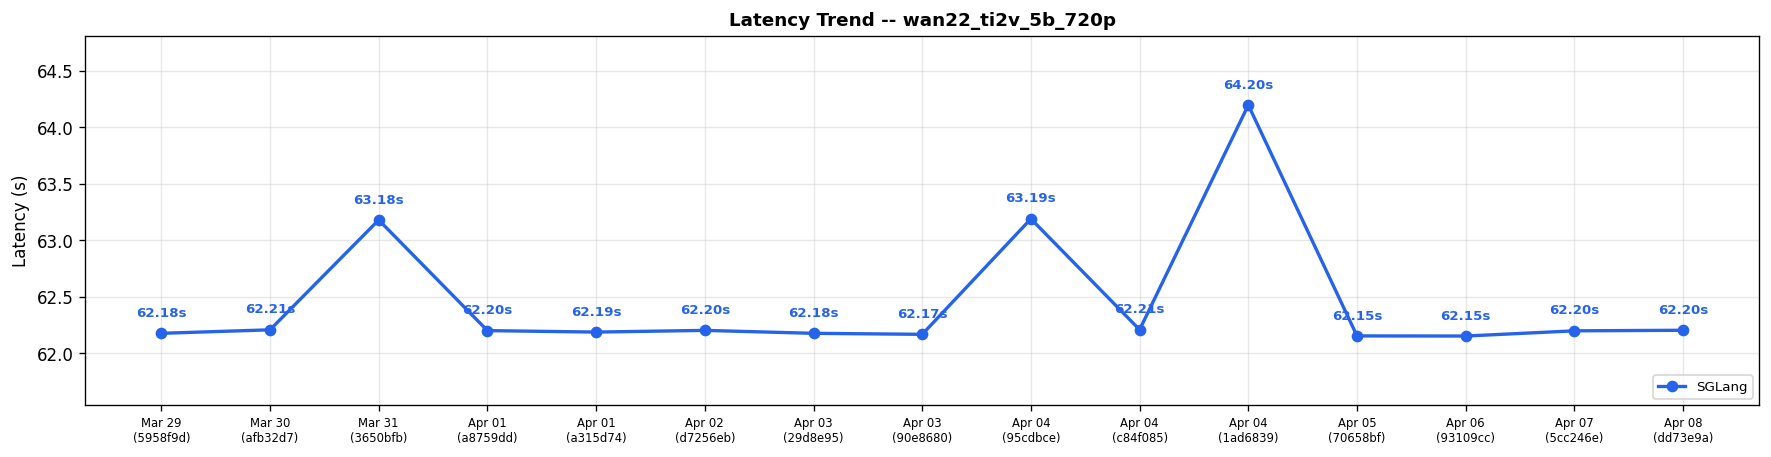
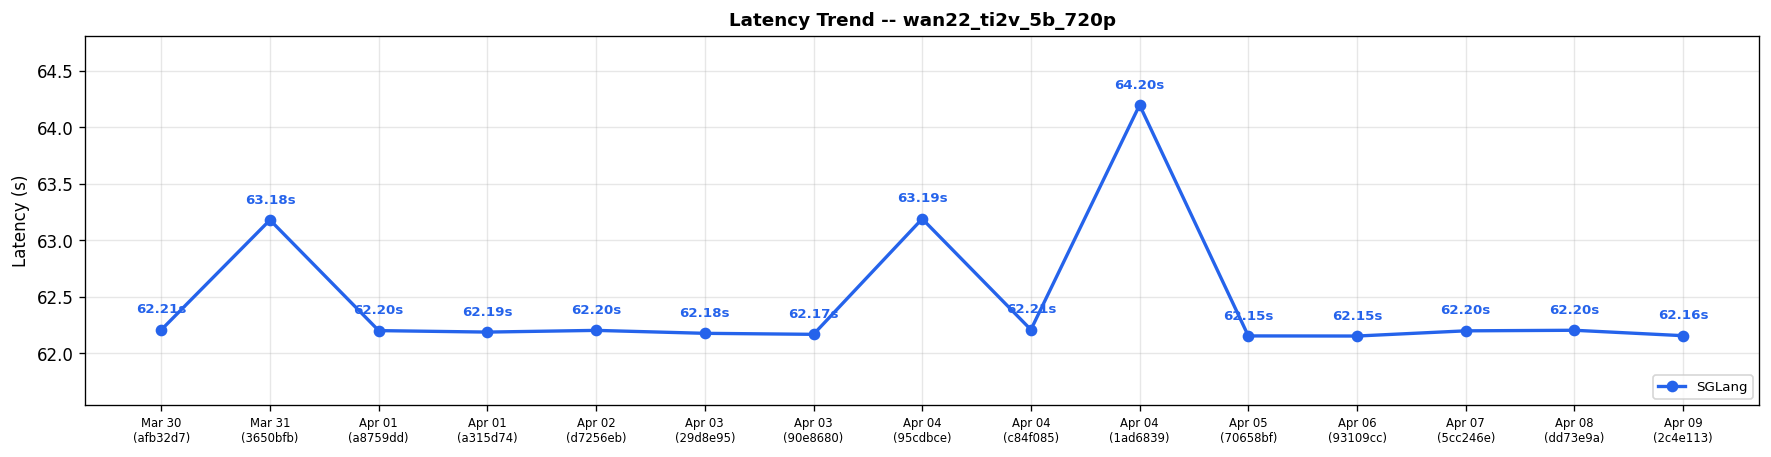
Diffusion comparison results for run 24166163578 (#562)

diff --git a/diffusion-comparisons/dashboard.md b/diffusion-comparisons/dashboard.md
@@ -1,20 +1,20 @@
 # Diffusion Cross-Framework Performance Dashboard
 
-*Generated: Apr 08 | Commit: `dd73e9a`*
+*Generated: Apr 09 | Commit: `2c4e113`*
 
 ## Cross-Framework Performance Comparison
 
 | Model | Risk | sglang (s) |
 |-------|------|---------|
-| FLUX.1-dev | ✅ | **6.83** |
-| FLUX.2-dev | ✅ | **22.96** |
-| Qwen-Image-2512 | ✅ | **13.19** |
-| Qwen-Image-Edit-2511 | ✅ | **23.84** |
+| FLUX.1-dev | ✅ | **6.71** |
+| FLUX.2-dev | ✅ | **22.93** |
+| Qwen-Image-2512 | ✅ | **13.20** |
+| Qwen-Image-Edit-2511 | ✅ | **23.80** |
 | Z-Image-Turbo | ✅ | **0.89** |
-| Wan2.2-T2V-A14B-Diffusers | ✅ | **210.25** |
-| Wan2.2-TI2V-5B-Diffusers | ✅ | **62.20** |
-| LTX-2 | ⚠ | **15.24** |
-| Wan2.2-I2V-A14B-Diffusers | ✅ | **206.65** |
+| Wan2.2-T2V-A14B-Diffusers | ✅ | **210.35** |
+| Wan2.2-TI2V-5B-Diffusers | ✅ | **62.16** |
+| LTX-2 | ✅ | **14.71** |
+| Wan2.2-I2V-A14B-Diffusers | ✅ | **206.54** |
 
 ### Latency Trend: flux1_dev_t2i_1024
 
@@ -65,6 +65,7 @@
 
 | Date | Commit | flux1_dev_t2i_1024 (s) | flux2_dev_t2i_1024 (s) | qwen_image_2512_t2i_1024 (s) | qwen_image_edit_2511 (s) | zimage_turbo_t2i_1024 (s) | wan22_t2v_a14b_720p (s) | wan22_ti2v_5b_720p (s) | ltx2_twostage_t2v (s) | wan22_i2v_a14b_720p (s) | Trend |
 |------|--------|---------|---------|---------|---------|---------|---------|---------|---------|---------|-------|
+| Apr 09 | `2c4e113` | 6.71 | 22.93 | 13.20 | 23.80 | 0.89 | 210.35 | 62.16 | 14.71 | 206.54 | :left_right_arrow:  :left_right_arrow:  :left_right_arrow:  :left_right_arrow:  :left_right_arrow:  :left_right_arrow:  :left_right_arrow:  :arrow_down:  :left_right_arrow: |
 | Apr 08 | `dd73e9a` | 6.83 | 22.96 | 13.19 | 23.84 | 0.89 | 210.25 | 62.20 | 15.24 | 206.65 | :arrow_up:  :left_right_arrow:  :left_right_arrow:  :left_right_arrow:  :left_right_arrow:  :left_right_arrow:  :left_right_arrow:  :left_right_arrow:  :left_right_arrow: |
 | Apr 07 | `5cc246e` | 6.69 | 22.92 | 13.19 | 23.83 | 0.89 | 210.64 | 62.20 | 15.11 | 207.62 | :left_right_arrow:  :left_right_arrow:  :arrow_down:  :left_right_arrow:  :left_right_arrow:  :left_right_arrow:  :left_right_arrow:  :arrow_up:  :left_right_arrow: |
 | Apr 06 | `93109cc` | 6.70 | 22.86 | 13.61 | 23.92 | 0.89 | 210.73 | 62.15 | 14.13 | 207.67 | :left_right_arrow:  :left_right_arrow:  :arrow_down:  :left_right_arrow:  :left_right_arrow:  :left_right_arrow:  :left_right_arrow:  :left_right_arrow:  :left_right_arrow: |
@@ -78,15 +79,7 @@
 | Apr 01 | `a315d74` | 6.70 | 22.89 | 13.30 | 29.70 | 0.92 | 16.20 | 62.19 | N/A | 22.08 | :left_right_arrow:  :left_right_arrow:  :left_right_arrow:  :left_right_arrow:  :left_right_arrow:  :left_right_arrow:  :left_right_arrow:   :arrow_up: |
 | Apr 01 | `a8759dd` | 6.70 | 22.88 | 13.19 | 30.10 | 0.93 | 16.16 | 62.20 | N/A | 21.07 | :left_right_arrow:  :left_right_arrow:  :left_right_arrow:  :left_right_arrow:  :left_right_arrow:  :left_right_arrow:  :left_right_arrow:   :arrow_up: |
 | Mar 31 | `3650bfb` | 6.69 | 22.84 | 13.19 | 29.64 | 0.93 | 16.10 | 63.18 | N/A | 9.03 | :left_right_arrow:  :left_right_arrow:  :left_right_arrow:  :left_right_arrow:  :left_right_arrow:  :left_right_arrow:  :left_right_arrow:   :arrow_down: |
-| Mar 30 | `afb32d7` | 6.68 | 22.79 | 13.16 | 29.44 | 0.92 | 16.08 | 62.21 | N/A | 10.04 | :left_right_arrow:  :left_right_arrow:  :left_right_arrow:  :left_right_arrow:  :left_right_arrow:  :left_right_arrow:  :left_right_arrow:   :left_right_arrow: |
-| Mar 29 | `5958f9d` | 6.70 | 22.86 | 13.19 | 29.74 | 0.93 | 16.31 | 62.18 | N/A | 10.04 | -- |
-
-> [!CAUTION]
-> **Action Required — Performance Alert**
->
-> The following cases need attention:
-> - ltx2_twostage_t2v: SGLang regression +5.6% vs 3-run avg (15.24s vs 14.43s)
-
+| Mar 30 | `afb32d7` | 6.68 | 22.79 | 13.16 | 29.44 | 0.92 | 16.08 | 62.21 | N/A | 10.04 | -- |
 
 ---
 *Generated by `generate_diffusion_dashboard.py` in SGLang nightly CI.*
